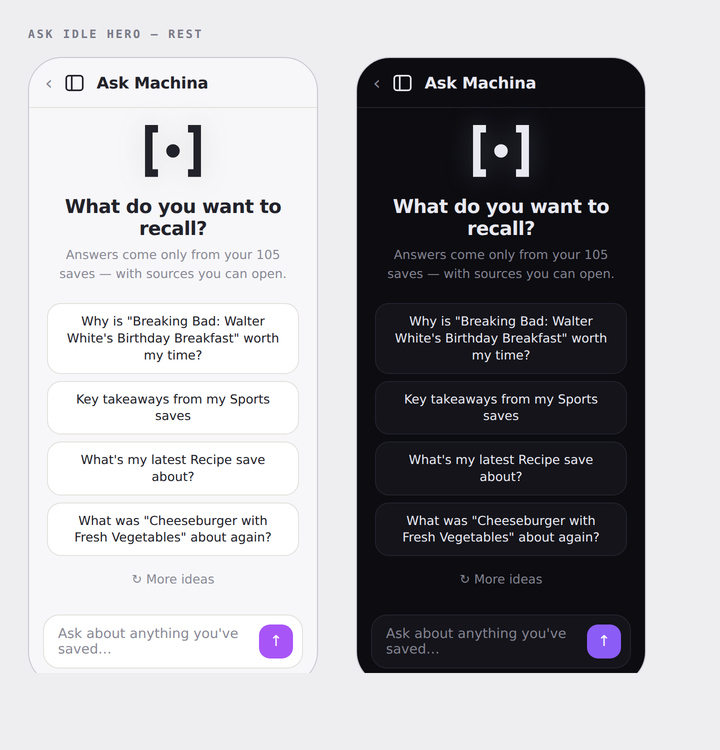
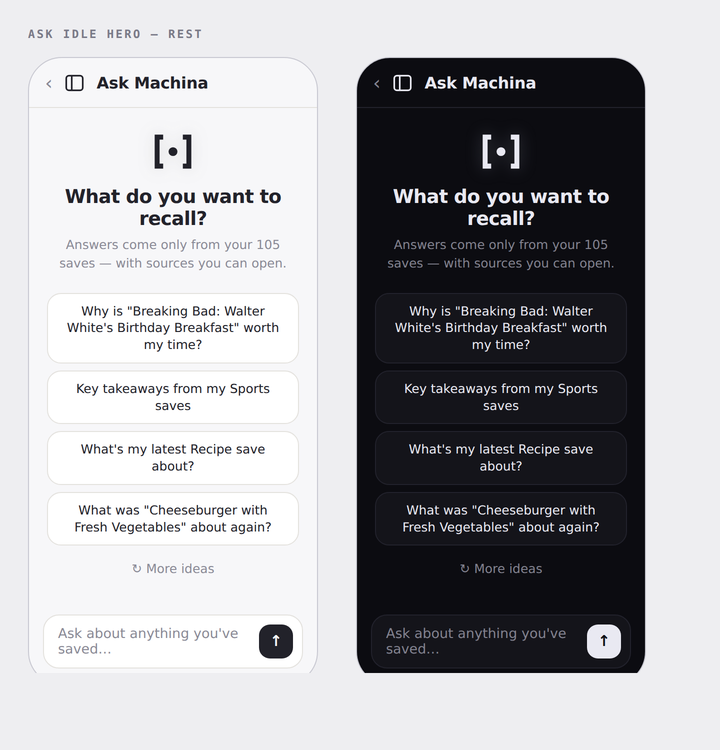
Design: size the Ask hero honestly, and drop hue from the CTA
Two owner corrections.

The hero was set at 58px against the orb's nominal 64 and read far heavier. The
number was the wrong thing to match: the orb is an airy dot cloud filling maybe
80% of its box, the mark is solid ink filling all of its own. At 38px it carries
the same visual weight as the thing it replaces.

The send button cannot be purple — which retires the carve-out proposed earlier
("keep the accent for primary CTA"). Affordance now comes from CONTRAST rather
than hue: the CTA is the highest-contrast element on the screen, graphite on
porcelain and porcelain on graphite. This is the better system anyway — a lone
purple button in an otherwise achromatic identity was the last thing that had
not been thought through.

Consequence for the sweep, and it is not small: --accent stops being a hue and
becomes a neutral emphasis token. Nothing in the UI carries colour for
decoration OR for affordance. Semantic colour still has to survive separately —
destructive red in particular, where contrast alone cannot say 'this deletes
something'.

Claude-Session: https://claude.ai/code/session_01FTEkC2vZJvK1xES5VBzpwh

diff --git a/design/icon-concepts/ask_idle.py b/design/icon-concepts/ask_idle.py
@@ -55,7 +55,10 @@ h2{font-family:ui-monospace,Menlo,monospace;font-size:11.5px;letter-spacing:.16e
 
 .body{flex:1;display:flex;flex-direction:column;align-items:center;justify-content:center;
  text-align:center;padding:0 18px}
-.hero{color:var(--ink);margin-bottom:18px}
+/* 38px, not the orb's nominal 64. The orb is an airy dot cloud that only
+   fills ~80% of its box; the mark is solid ink filling all of its own, so
+   matching the number would out-weigh what it replaces by half again. */
+.hero{color:var(--ink);margin-bottom:16px}
 .q{font-size:19px;font-weight:600;color:var(--ink);letter-spacing:-.02em;margin-bottom:6px}
 .sub2{font-size:12.5px;color:var(--mut);line-height:1.5;max-width:230px;margin-bottom:20px}
 .chips{display:flex;flex-wrap:wrap;justify-content:center;gap:7px}
@@ -67,13 +70,15 @@ h2{font-family:ui-monospace,Menlo,monospace;font-size:11.5px;letter-spacing:.16e
 .field{display:flex;align-items:center;gap:8px;background:var(--card);border:1px solid var(--ln);
  border-radius:16px;padding:9px 9px 9px 14px}
 .ph{flex:1;font-size:13.5px;color:var(--mut)}
+/* Affordance from CONTRAST, not hue: the send button is the highest-contrast
+   element on the screen, which is what makes it read as the thing you press. */
 .send{width:34px;height:34px;border-radius:11px;display:grid;place-items:center;
- background:var(--accent);color:#fff;font-size:15px}
+ background:var(--cta);color:var(--cta-ink);font-size:15px;font-weight:600}
 
-.light{--ink:#22222A;--mut:#8A8A96;--ln:#E4E2DE;--card:#FFFFFF;--accent:#A855F7;
- background:#F7F7F9}
-.dark{--ink:#E9E9F2;--mut:#82828F;--ln:#22222C;--card:#14141A;--accent:#8B5CF6;
- background:#0C0C11}
+.light{--ink:#22222A;--mut:#8A8A96;--ln:#E4E2DE;--card:#FFFFFF;
+ --cta:#22222A;--cta-ink:#F7F7F9;background:#F7F7F9}
+.dark{--ink:#E9E9F2;--mut:#82828F;--ln:#22222C;--card:#14141A;
+ --cta:#E9E9F2;--cta-ink:#101016;background:#0C0C11}
 """
 
 SIDEBAR = ('<svg viewBox="0 0 24 24" fill="none" stroke="currentColor" stroke-width="1.8">'
@@ -86,7 +91,7 @@ def phone(theme, glow):
       <div class="sub"><span class="chev">‹</span><span class="lead">{SIDEBAR}</span>
         <span class="subttl">Ask Machina</span></div>
       <div class="body">
-        <div class="hero">{mark(58, glow)}</div>
+        <div class="hero">{mark(38, glow)}</div>
         <div class="q">What do you want to recall?</div>
         <div class="sub2">Answers come only from your 105 saves — with sources you can open.</div>
         <div class="chips">{chips}</div>
